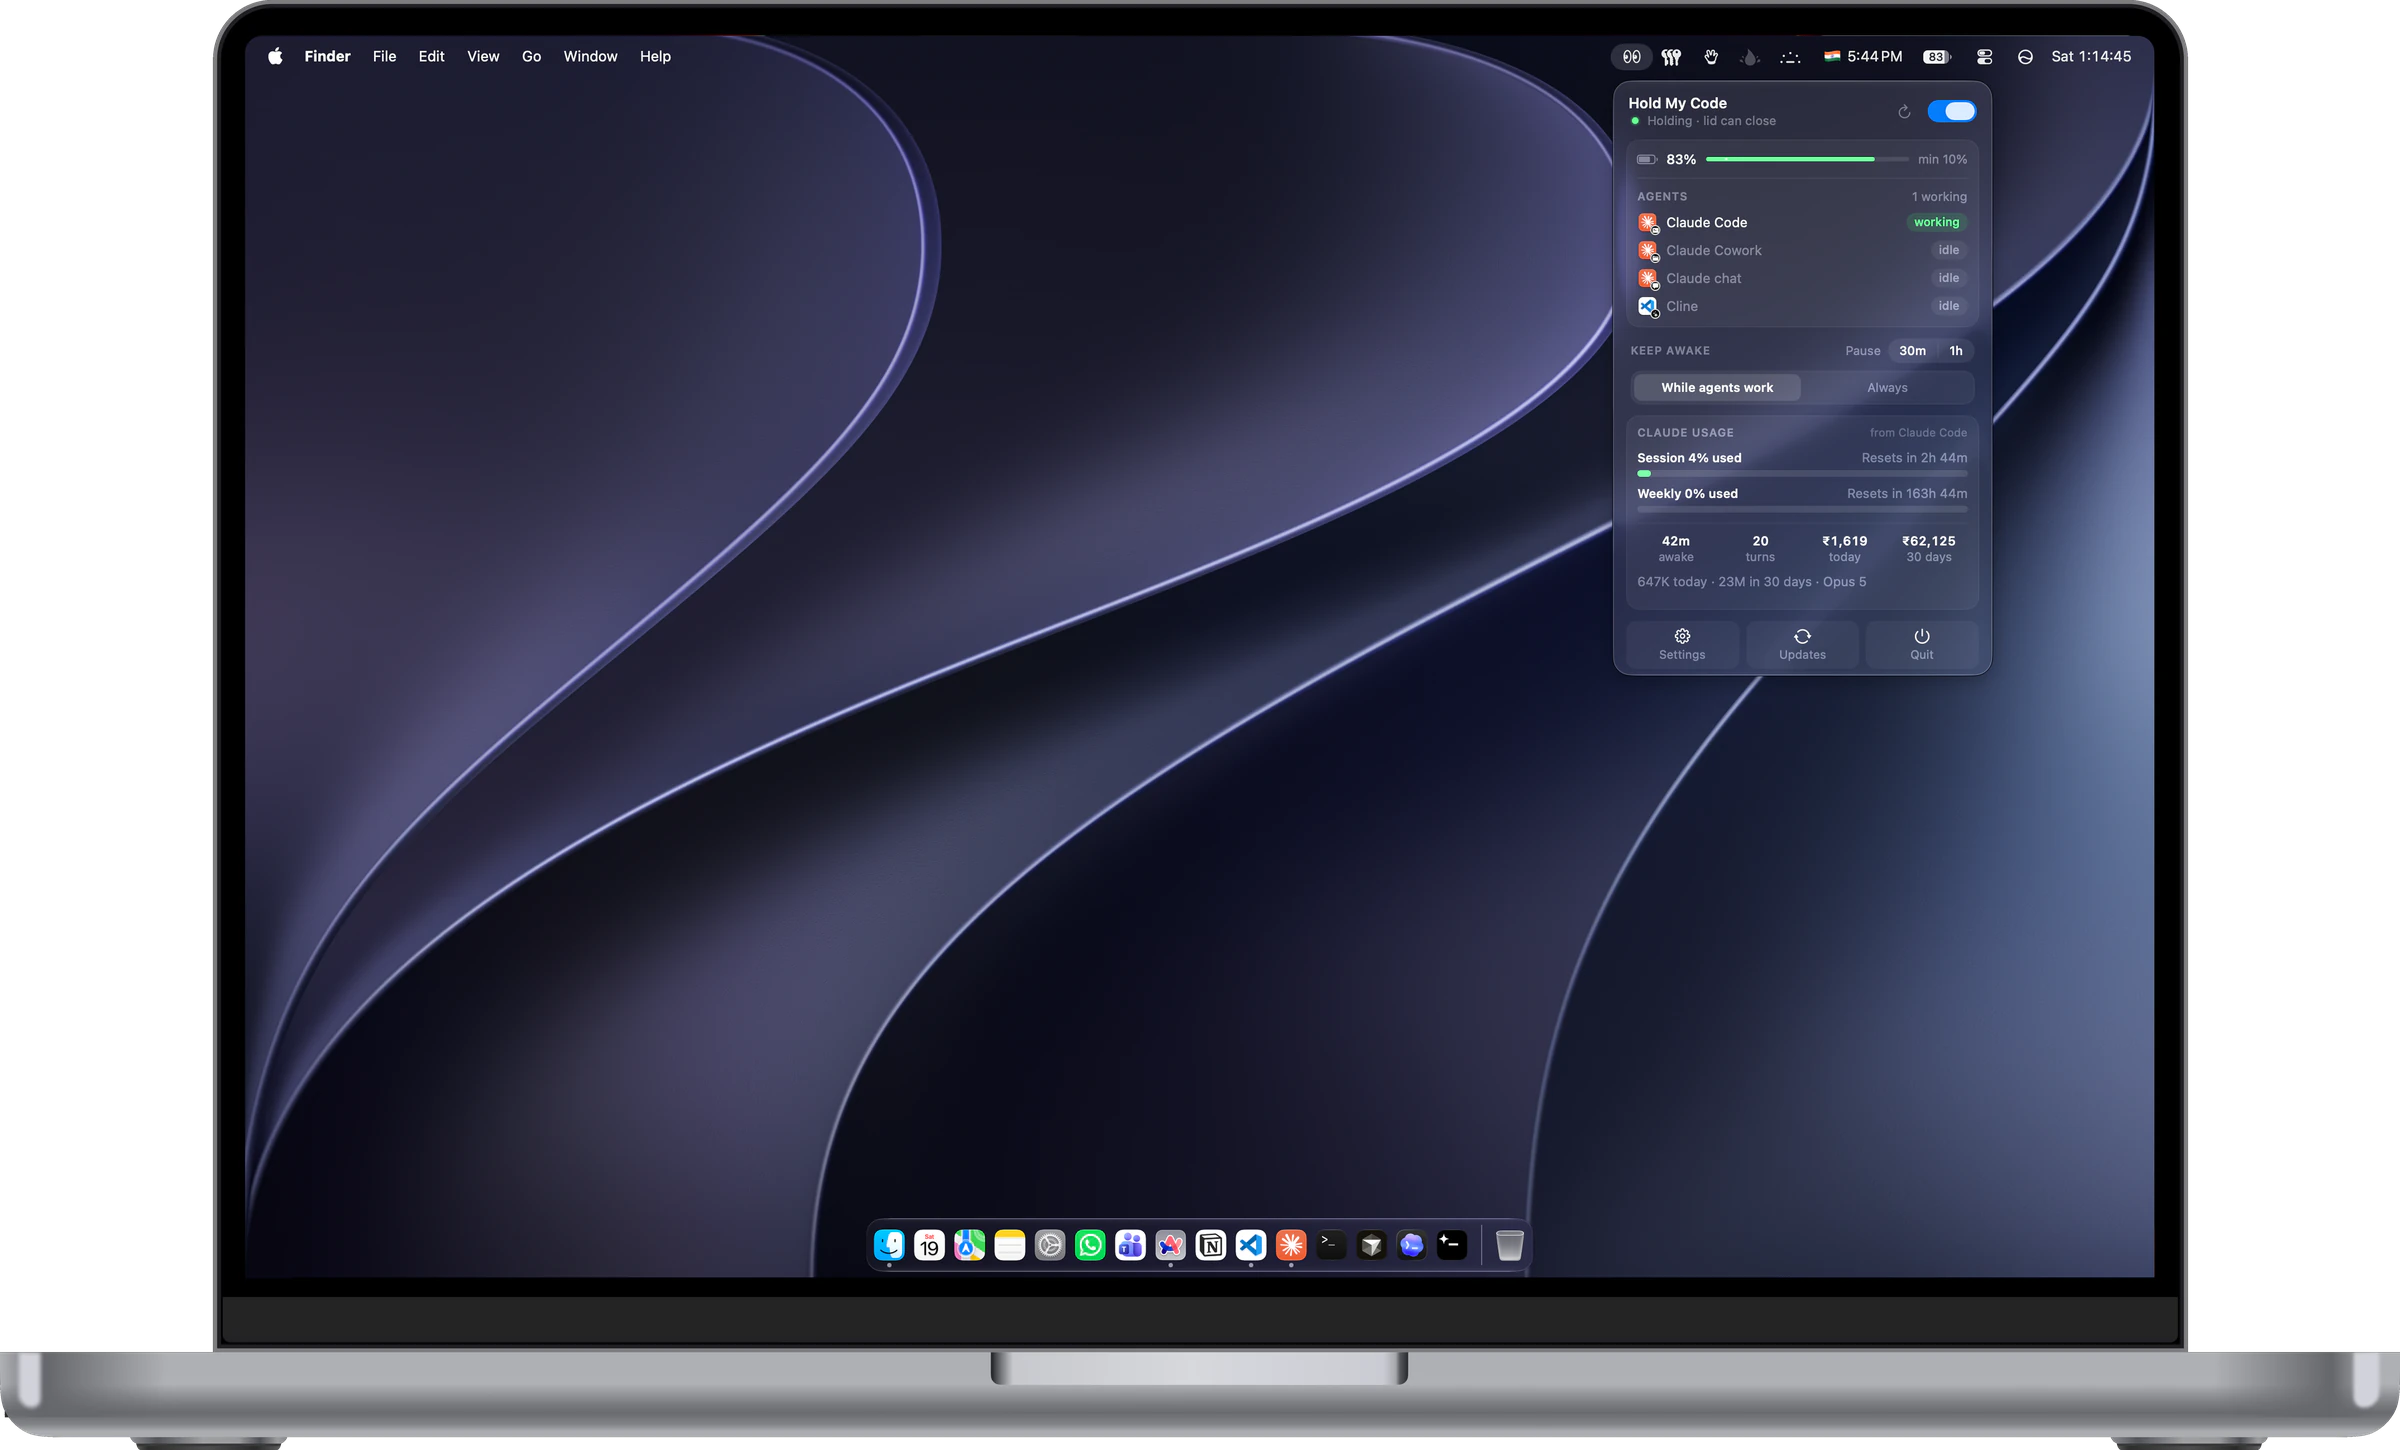
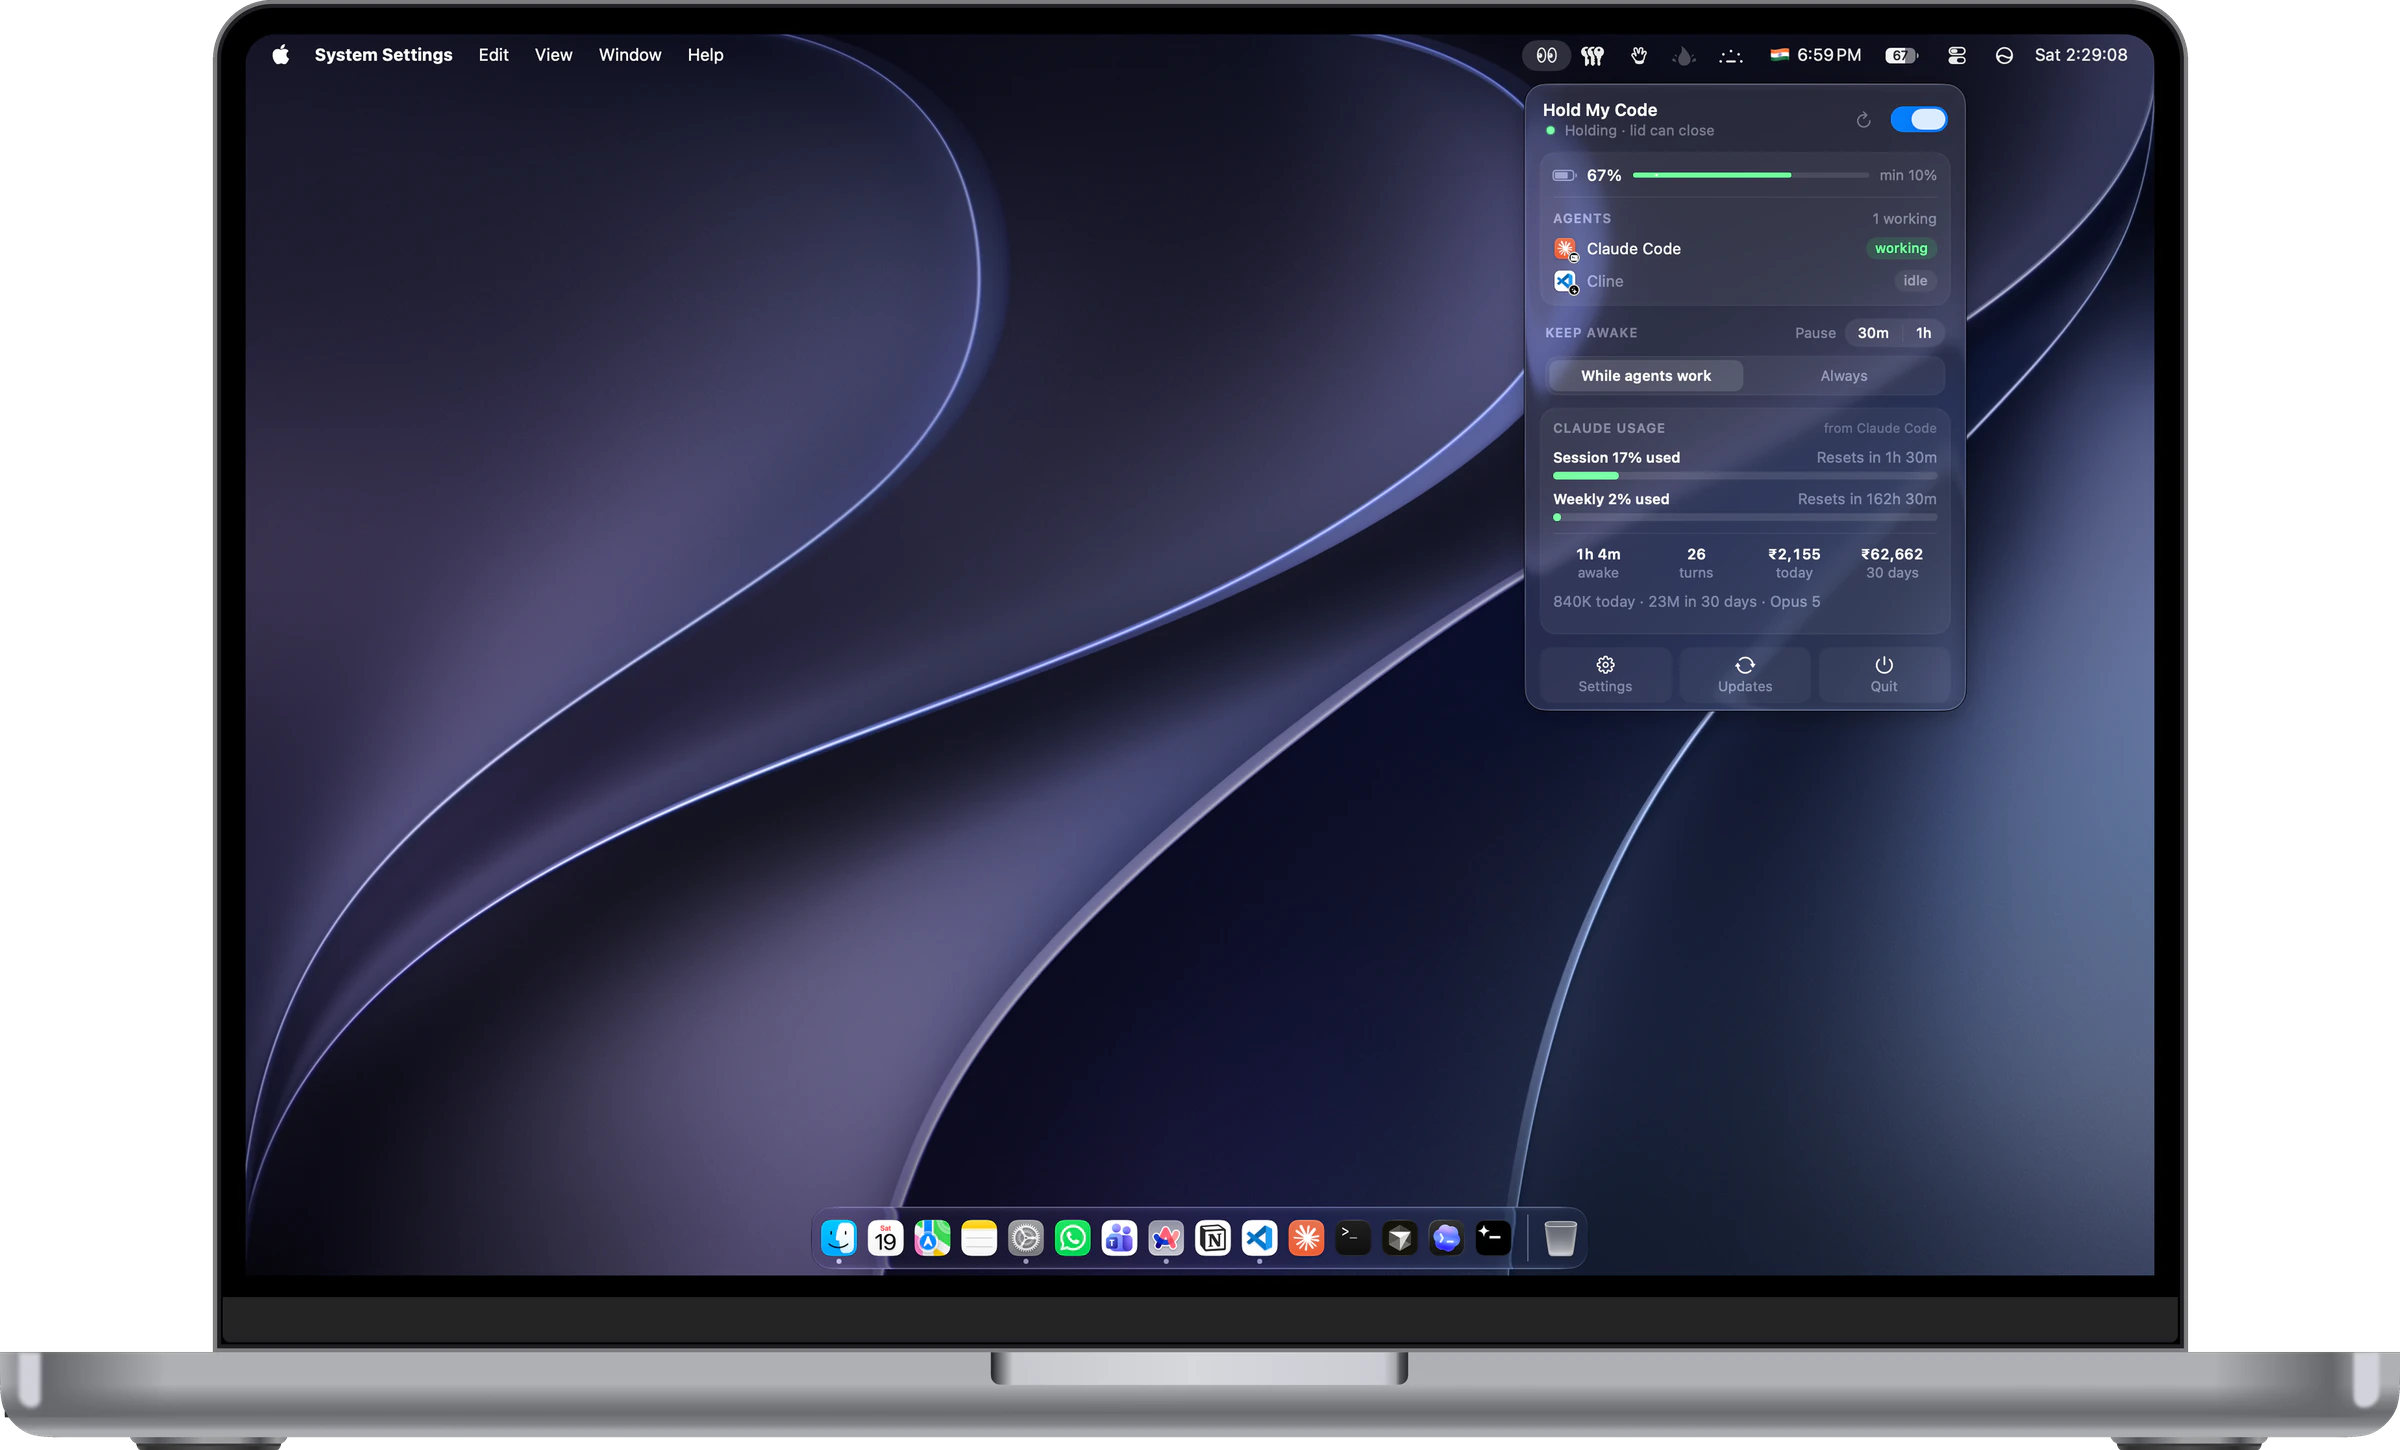
content: hero shot re-taken, two agents and the live usage panel
Same frame, current panel: battery 67%, Claude Code working next to an idle
Cline, Keep Awake on "while agents work", and session/weekly usage with the
cost row under it. Alt text rewritten to match what is actually on screen.

Cut from the new 9928px export the same way as before — flood-fill the flat
ground from the border, premultiply, reduce, unpremultiply — and re-encoded at
all three srcset widths: 1600 (72 KB), 2400 (111 KB), 3200 (152 KB). Every
width now carries ?v=4, including the two that shipped unversioned last time,
so nobody is left holding the previous shot. Height attribute goes to 967,
which is the honest rounding of the source's 9928x5998.

.gitignore follows the raw export to (6) and drops the stale (1) entry.

diff --git a/index.html b/index.html
@@ -95,11 +95,11 @@
        .wrap so the laptop can run nearly edge to edge instead of being held to
        the 1000px text column. Narrow and 1x screens still get the 1600px file. -->
   <div class="figure hero-figure reveal">
-    <img class="hero-shot" src="hero-laptop.webp?v=3" width="1600" height="966"
-         srcset="hero-laptop.webp?v=3 1600w, hero-laptop-2400.webp 2400w, hero-laptop-3200.webp 3200w"
+    <img class="hero-shot" src="hero-laptop.webp?v=4" width="1600" height="967"
+         srcset="hero-laptop.webp?v=4 1600w, hero-laptop-2400.webp?v=4 2400w, hero-laptop-3200.webp?v=4 3200w"
          sizes="(min-width: 1964px) 1920px, calc(100vw - 44px)"
          fetchpriority="high" decoding="async"
-         alt="The HoldMyCode menu bar panel open on a MacBook, showing Holding with the lid able to close, battery at 83%, Claude Code working next to three idle agents, and the Claude usage summary below.">
+         alt="The HoldMyCode menu bar panel open on a MacBook, showing Holding with the lid able to close, battery at 67%, Claude Code working while Cline sits idle, Keep Awake set to while agents work, and the Claude usage summary below.">
     <p class="figure-cap">HoldMyCode holding the wake lock while Claude Code works</p>
   </div>
 </section>
